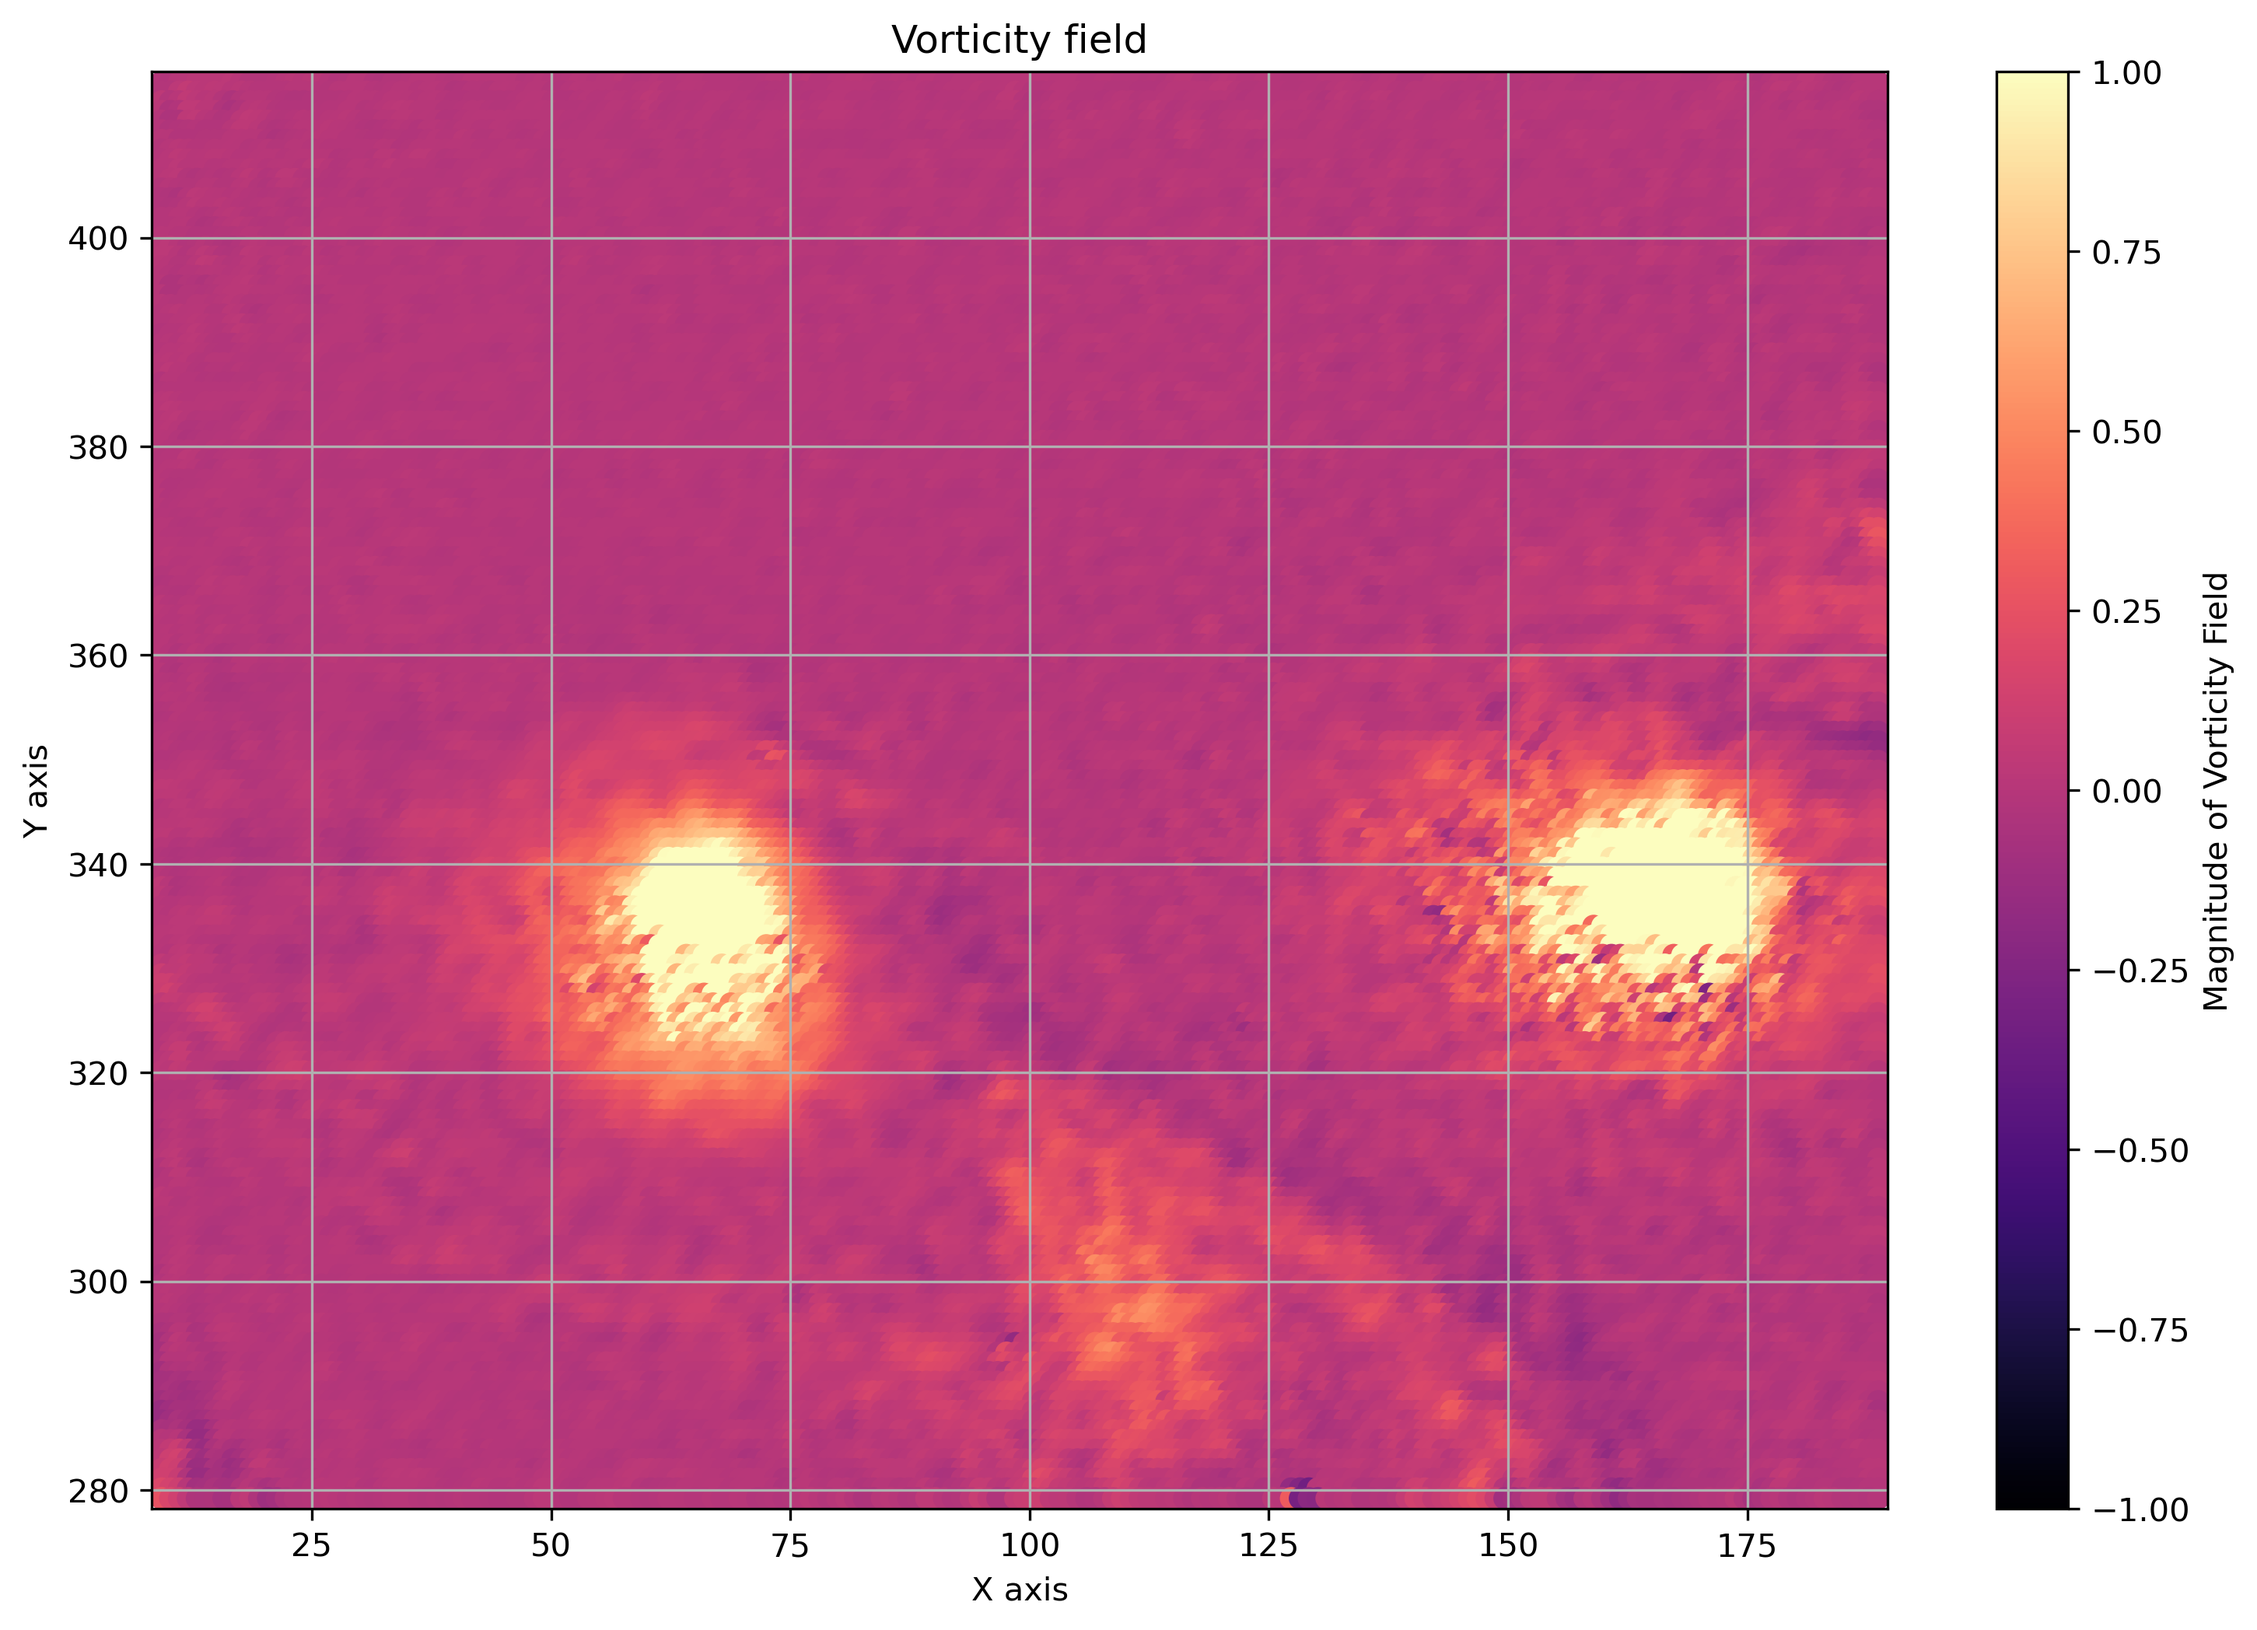
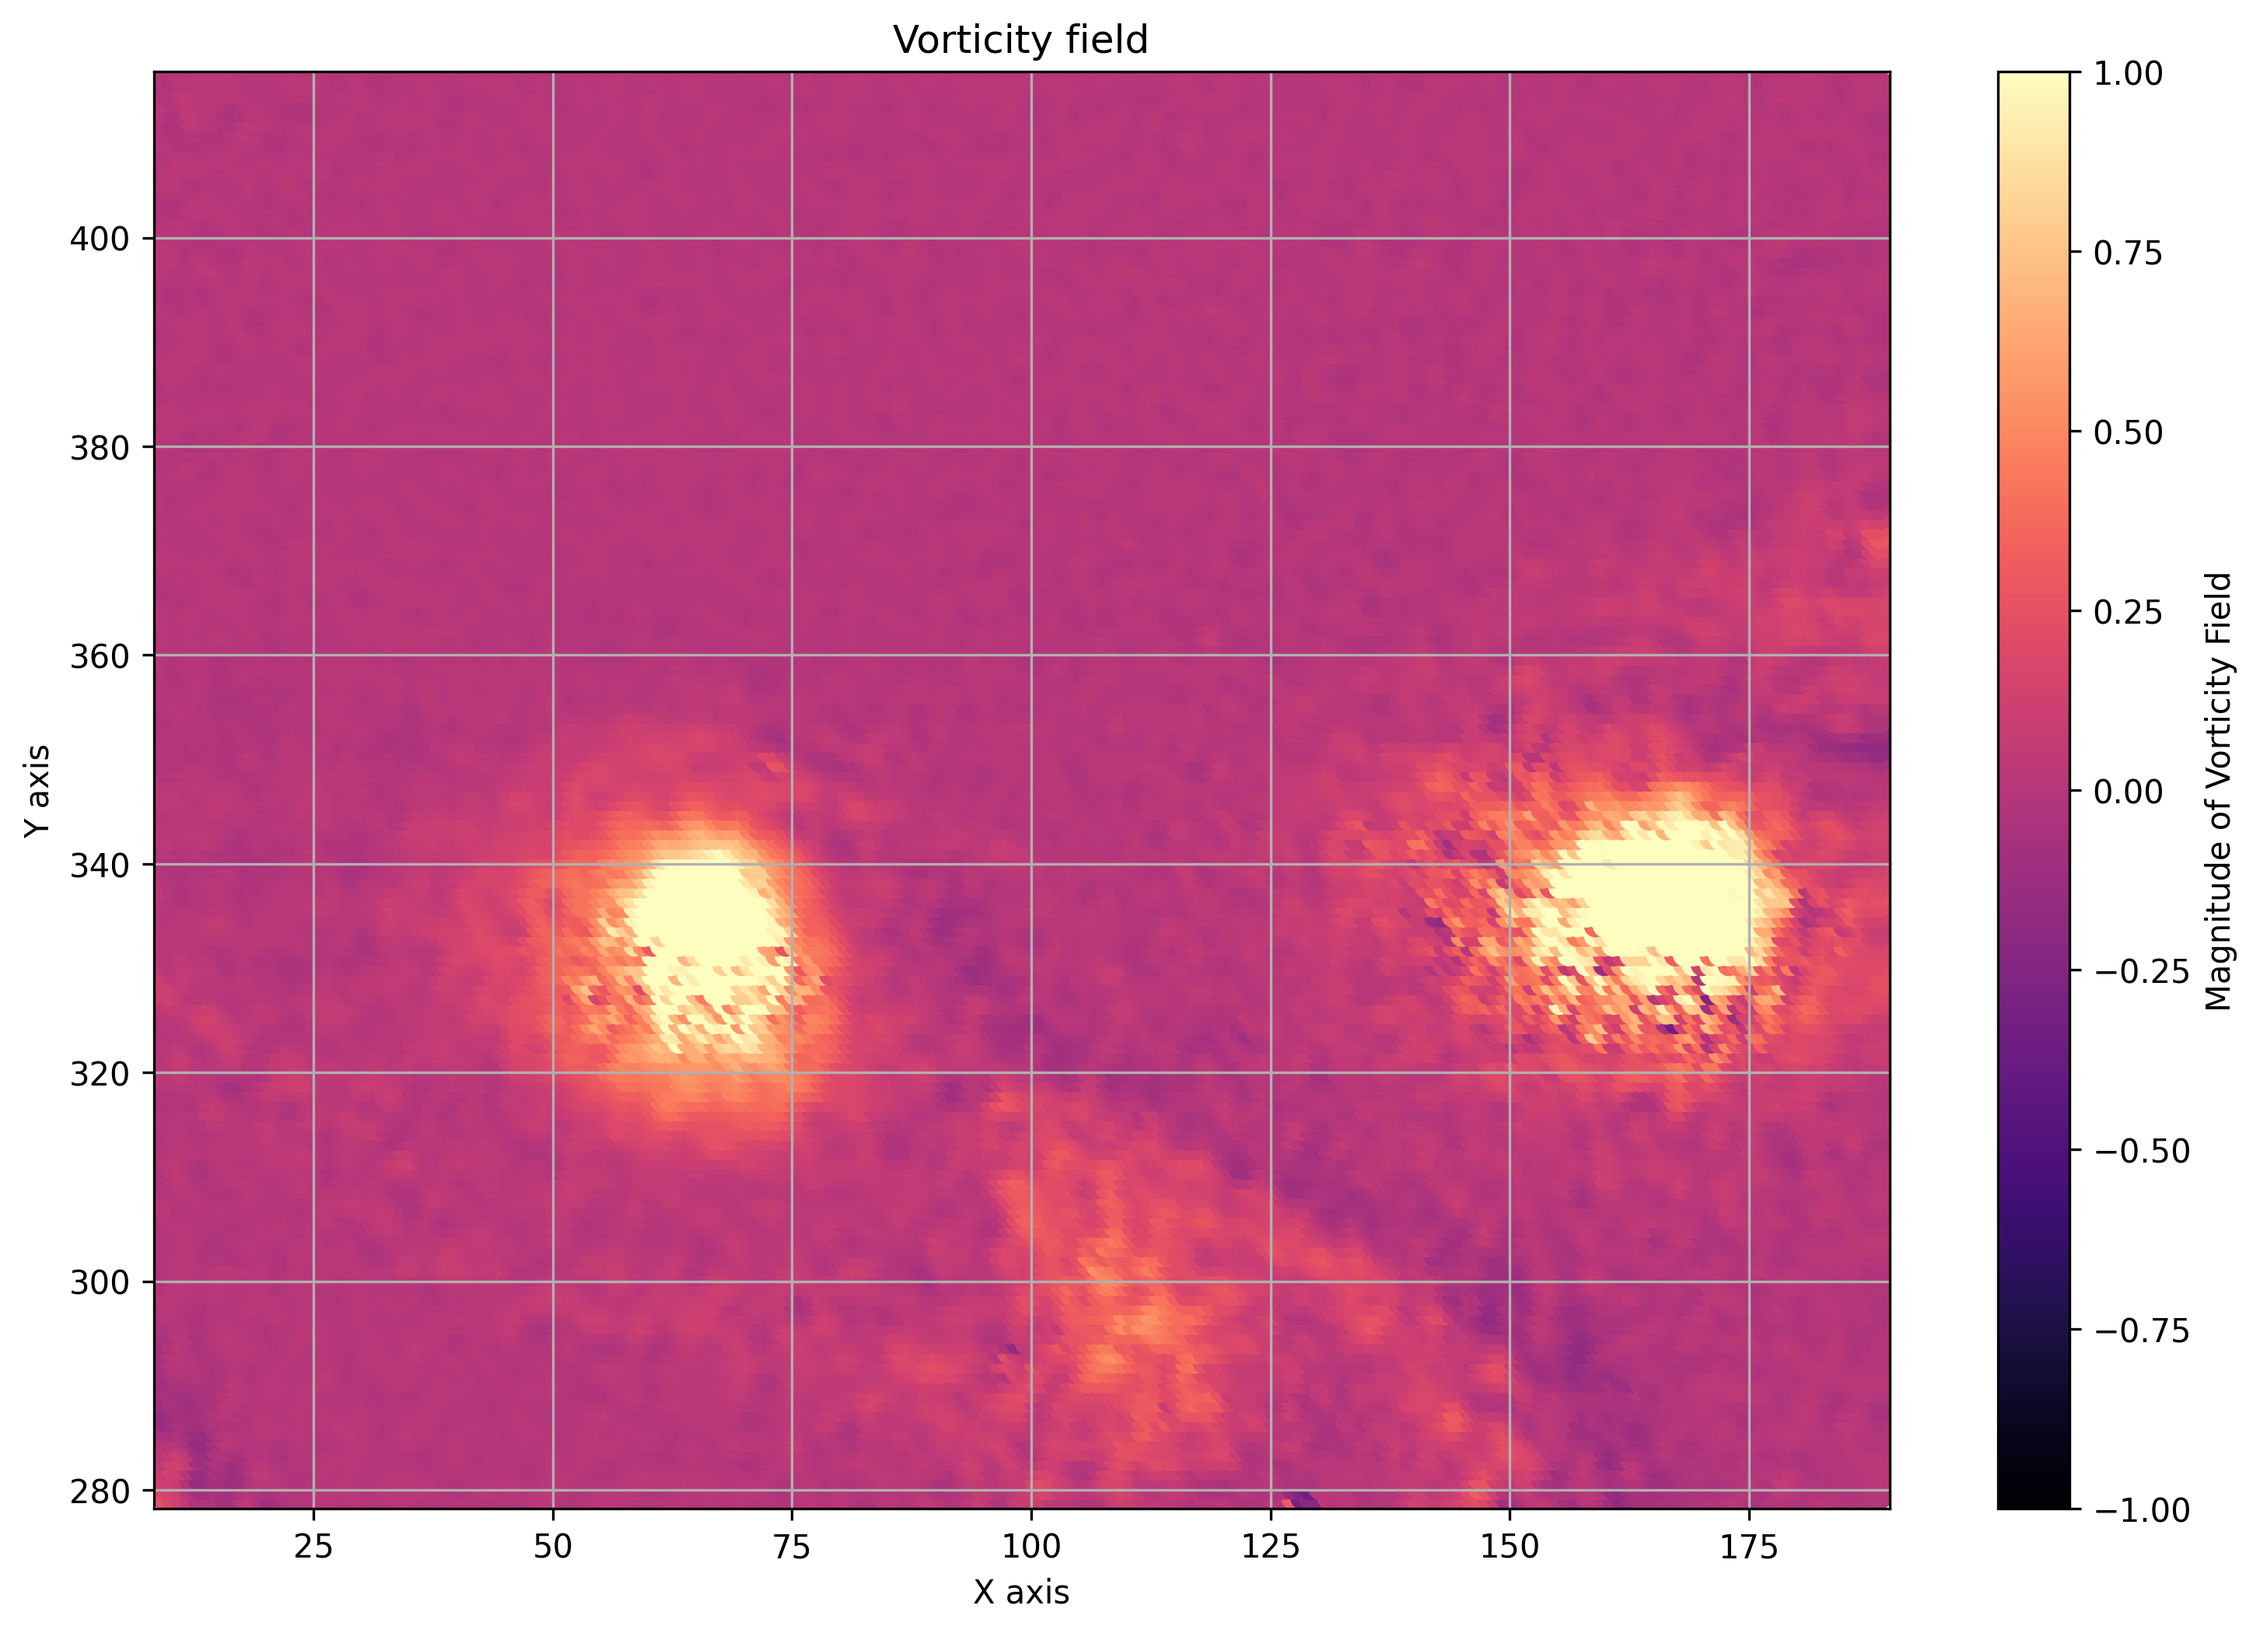
Properly generalized vorticity for plane C

diff --git a/vorticity_fluctuations_KE_functions.py b/vorticity_fluctuations_KE_functions.py
@@ -1,4 +1,3 @@
-# imports
 import numpy as np
 import matplotlib.pyplot as plt
 from positionfunction import position
@@ -23,8 +22,6 @@ def Velocity_fluctuations(u_magnitudes, v_magnitudes, average_U_arr, average_V_a
 
     return Velocity_fluctuations_u, Velocity_fluctuations_v
 
-
-# Turbulent kinetic energy, defined as the mean of the square of the velocity fluctuations
 
 def Turbulent_kinetic_energy(Velocity_fluctuations_u, Velocity_fluctuations_v):
     
@@ -62,37 +59,30 @@ def Turbulent_kinetic_energy(Velocity_fluctuations_u, Velocity_fluctuations_v):
     
     return turbulent_kinetic_energy
 
+
 def UandVmagnitudes1Dto2Dconverter(u_magnitudes, v_magnitudes, plane, J_number):
-    if plane == 'C':
-        
-        x_positions, y_positions = position(plane, J_number)
+    x_positions, y_positions = position(plane, J_number)
 
-        # Determine grid dimensions based on grid_size
-        x = np.unique(x_positions)
-        y = np.unique(y_positions)
-        n = len(x)
-        m = len(y)
+    # Determine grid dimensions based on grid_size
+    x = np.unique(x_positions)
+    y = np.unique(y_positions)
+    n = len(x)
+    m = len(y)
 
-        # Create a 2D array for the u and v magnitudes
-        u_magnitudes_2D = np.zeros((n, m))
-        v_magnitudes_2D = np.zeros((n, m))
+    # Create a 2D array for the u and v magnitudes
+    u_magnitudes_2D = np.zeros((n, m))
+    v_magnitudes_2D = np.zeros((n, m))
 
-        # Fill the 2D arrays with the 1D data
+    # Fill the 2D arrays with the 1D data
 
-        for i in range(u_magnitudes):
-            i_x = np.where(x == x_positions[i])[0]
-            i_y = np.where(y == y_positions[i])[0]
-            u_magnitudes_2D[i_x, i_y] = u_magnitudes[i]
+    for i in range(len(u_magnitudes)):
+        i_x = np.where(x == x_positions[i])[0]
+        i_y = np.where(y == y_positions[i])[0]
+        u_magnitudes_2D[i_x, i_y] = u_magnitudes[i]
 
-        for j in range(v_magnitudes):
-            j_x = np.where(x == x_positions[j])[0]
-            j_y = np.where(y == y_positions[j])[0]
-            v_magnitudes_2D[j_x, j_y] = v_magnitudes[j]
+    for j in range(len(v_magnitudes)):
+        j_x = np.where(x == x_positions[j])[0]
+        j_y = np.where(y == y_positions[j])[0]
+        v_magnitudes_2D[j_x, j_y] = v_magnitudes[j]
 
-        return u_magnitudes_2D, v_magnitudes_2D
-
-    else:
-        u_magnitudes_2D = np.array(u_magnitudes).reshape(167,214) # 167 rows, 214 columns
-        v_magnitudes_2D = np.array(v_magnitudes).reshape(167,214)
-        
-        return u_magnitudes_2D, v_magnitudes_2D
+    return u_magnitudes_2D.T, v_magnitudes_2D.T

diff --git a/main.py b/main.py
@@ -11,12 +11,12 @@ import numpy as np
 import matplotlib.pyplot as plt
 from averagefunction import average_values, time_average_image
 from Bin_average_function import bin_average_velocities, bin_average_vector_field_image
-from vorticity_fluctuations_KE_functions import Vorticity, Velocity_fluctuations
+from vorticity_fluctuations_KE_functions import Velocity_fluctuations
 from Vorticity_image_gen import Vorticity_image, Velocity_fluctuations_image, Turbulent_kinetic_energy
 from interpolate import interpol
 
 
-Planes=['C']#Add C
+Planes=['B']#Add C
 
 for plane in Planes:
     print(plane)
@@ -36,21 +36,21 @@ for plane in Planes:
         
           
         else:
-            for i in range(1, 3):
+            for i in range(1, 5):
                 
                 
                 print('bin', i)
-                #error, u_magnitudes, v_magnitudes = bin_average_velocities(i, plane, j)
+                error, u_magnitudes, v_magnitudes = bin_average_velocities(i, plane, j)
                 #if error==0:
                     #break
                 #Velocity_fluctuations_image(u_magnitudes, v_magnitudes, average_U_arr, average_V_arr, plane, j, i)
                 # Turbulent kinetic energy
-                Turbulent_kinetic_energy(plane, j, i)
+                #Turbulent_kinetic_energy(plane, j, i)
                 #vector fields
                 #bin_average_vector_field_image(i, plane, j)
 
                 # Obtain the flow properties for bin averaged flow fields and plot the flow properties / Visualize
-                #Vorticity_image(u_magnitudes, v_magnitudes, plane, j, i)
+                Vorticity_image(u_magnitudes, v_magnitudes, plane, j, i)
                 # fluctuations_image
                 
             

diff --git a/Vorticity_image_gen.py b/Vorticity_image_gen.py
@@ -13,7 +13,7 @@ def Vorticity_image(u_magnitudes, v_magnitudes, plane, J_number, bin):
     #load positions
     x_positions, y_positions = position(plane, J_number)
     dx_list = np.unique(x_positions)
-    dy_list = np.unique(y_positions)[::-1]
+    dy_list = np.unique(y_positions)
     
     print(len(dx_list), len(dy_list))
     
